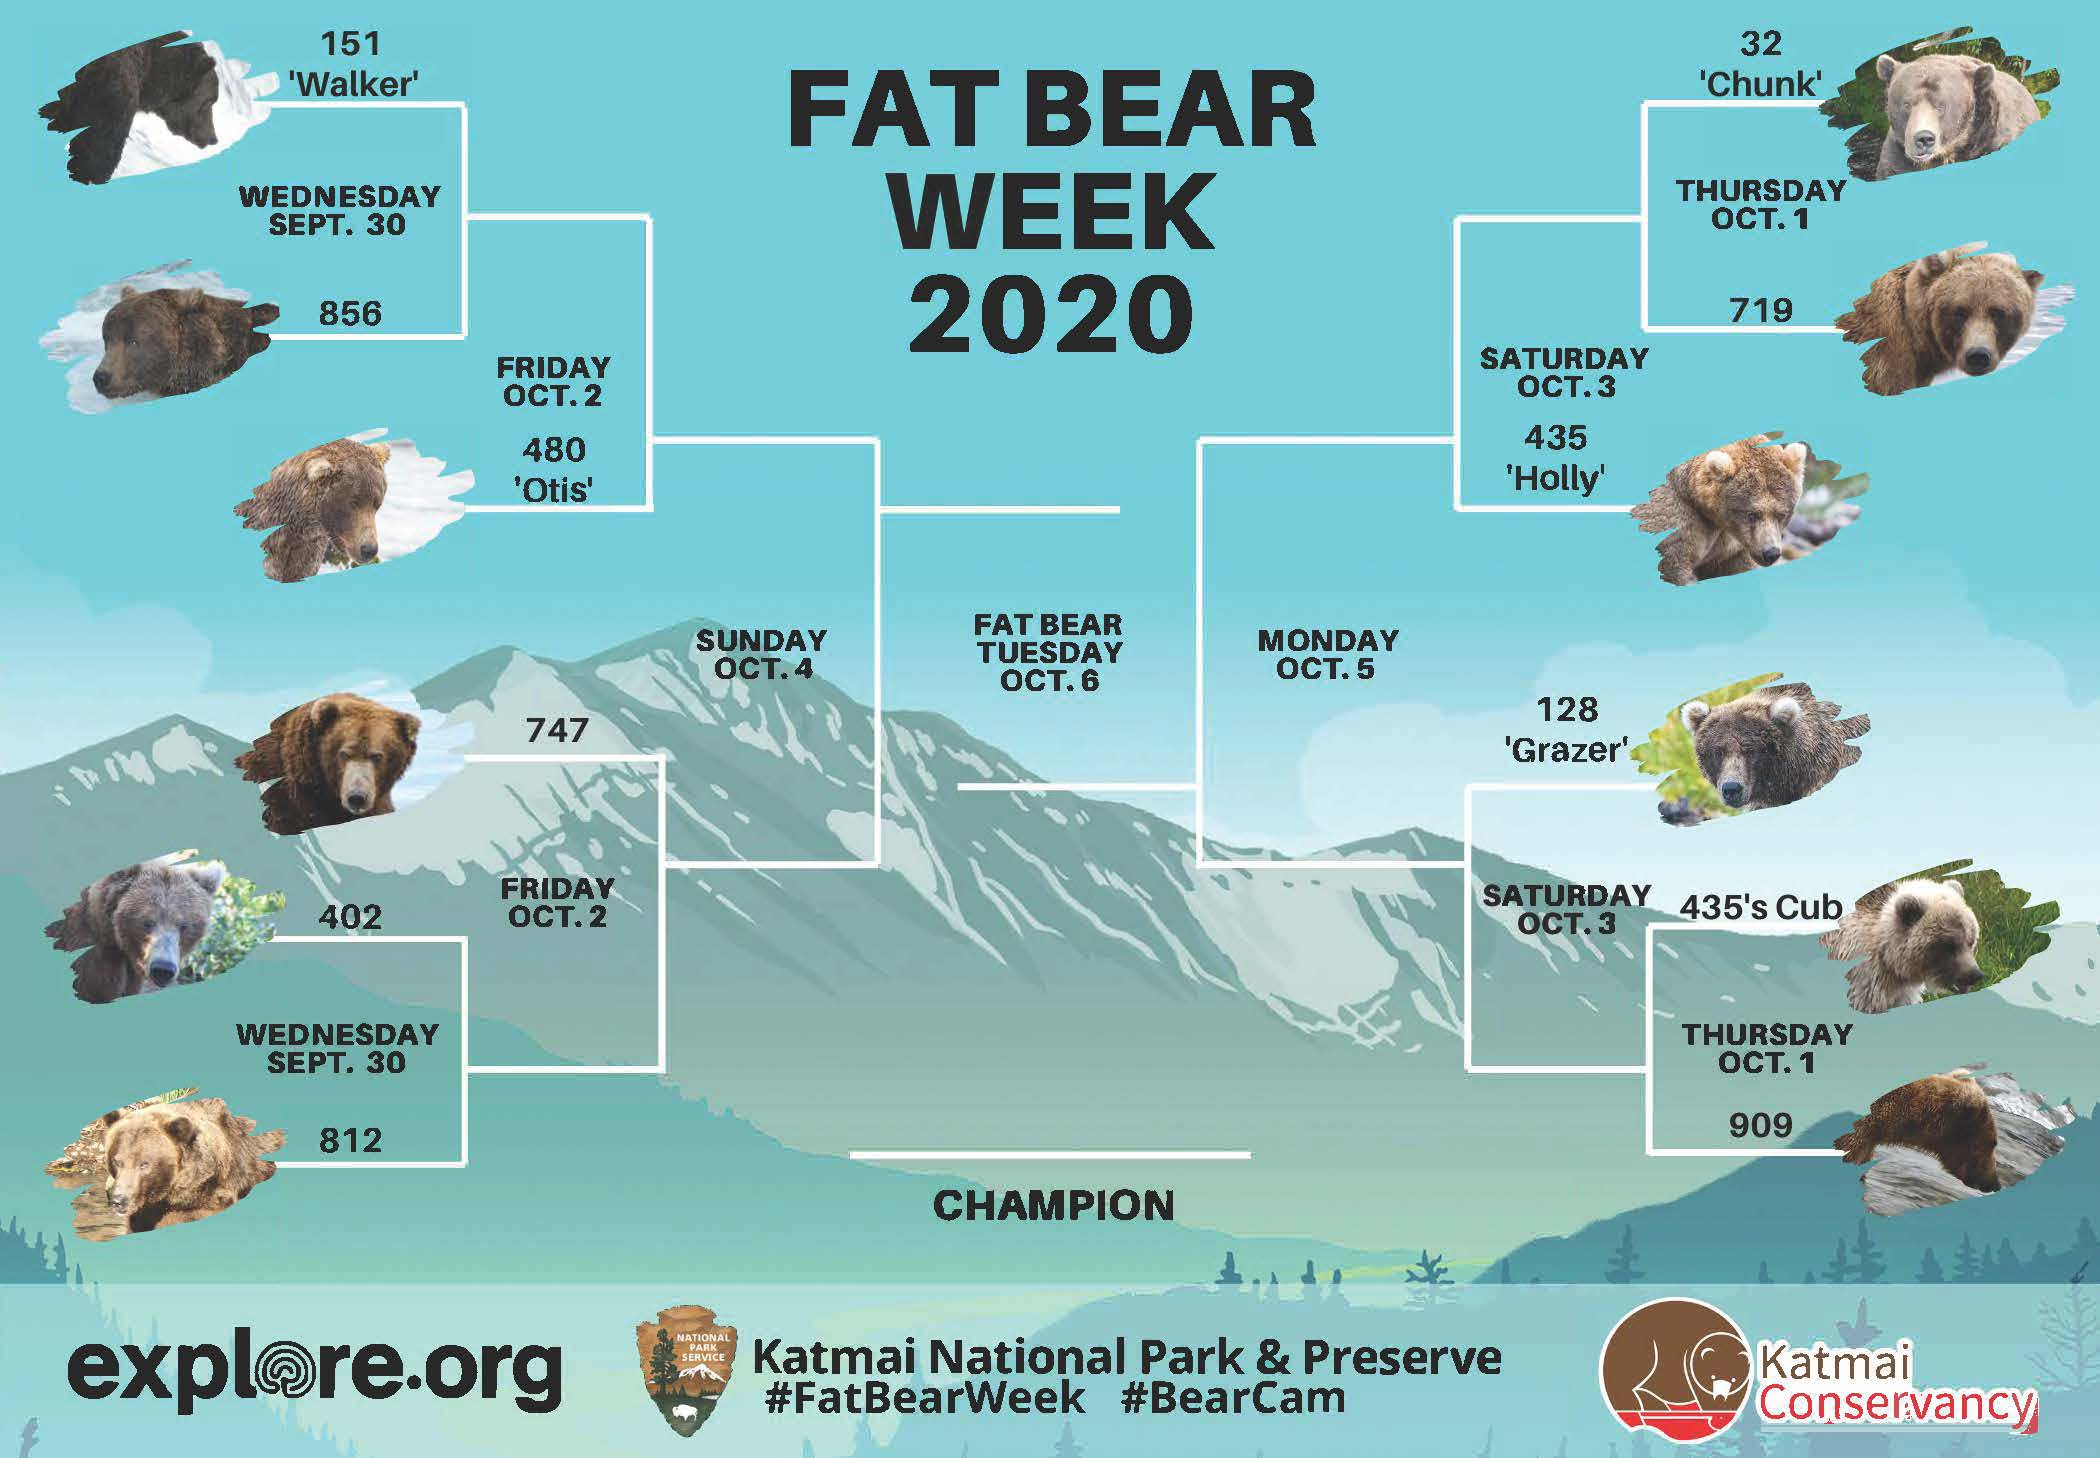
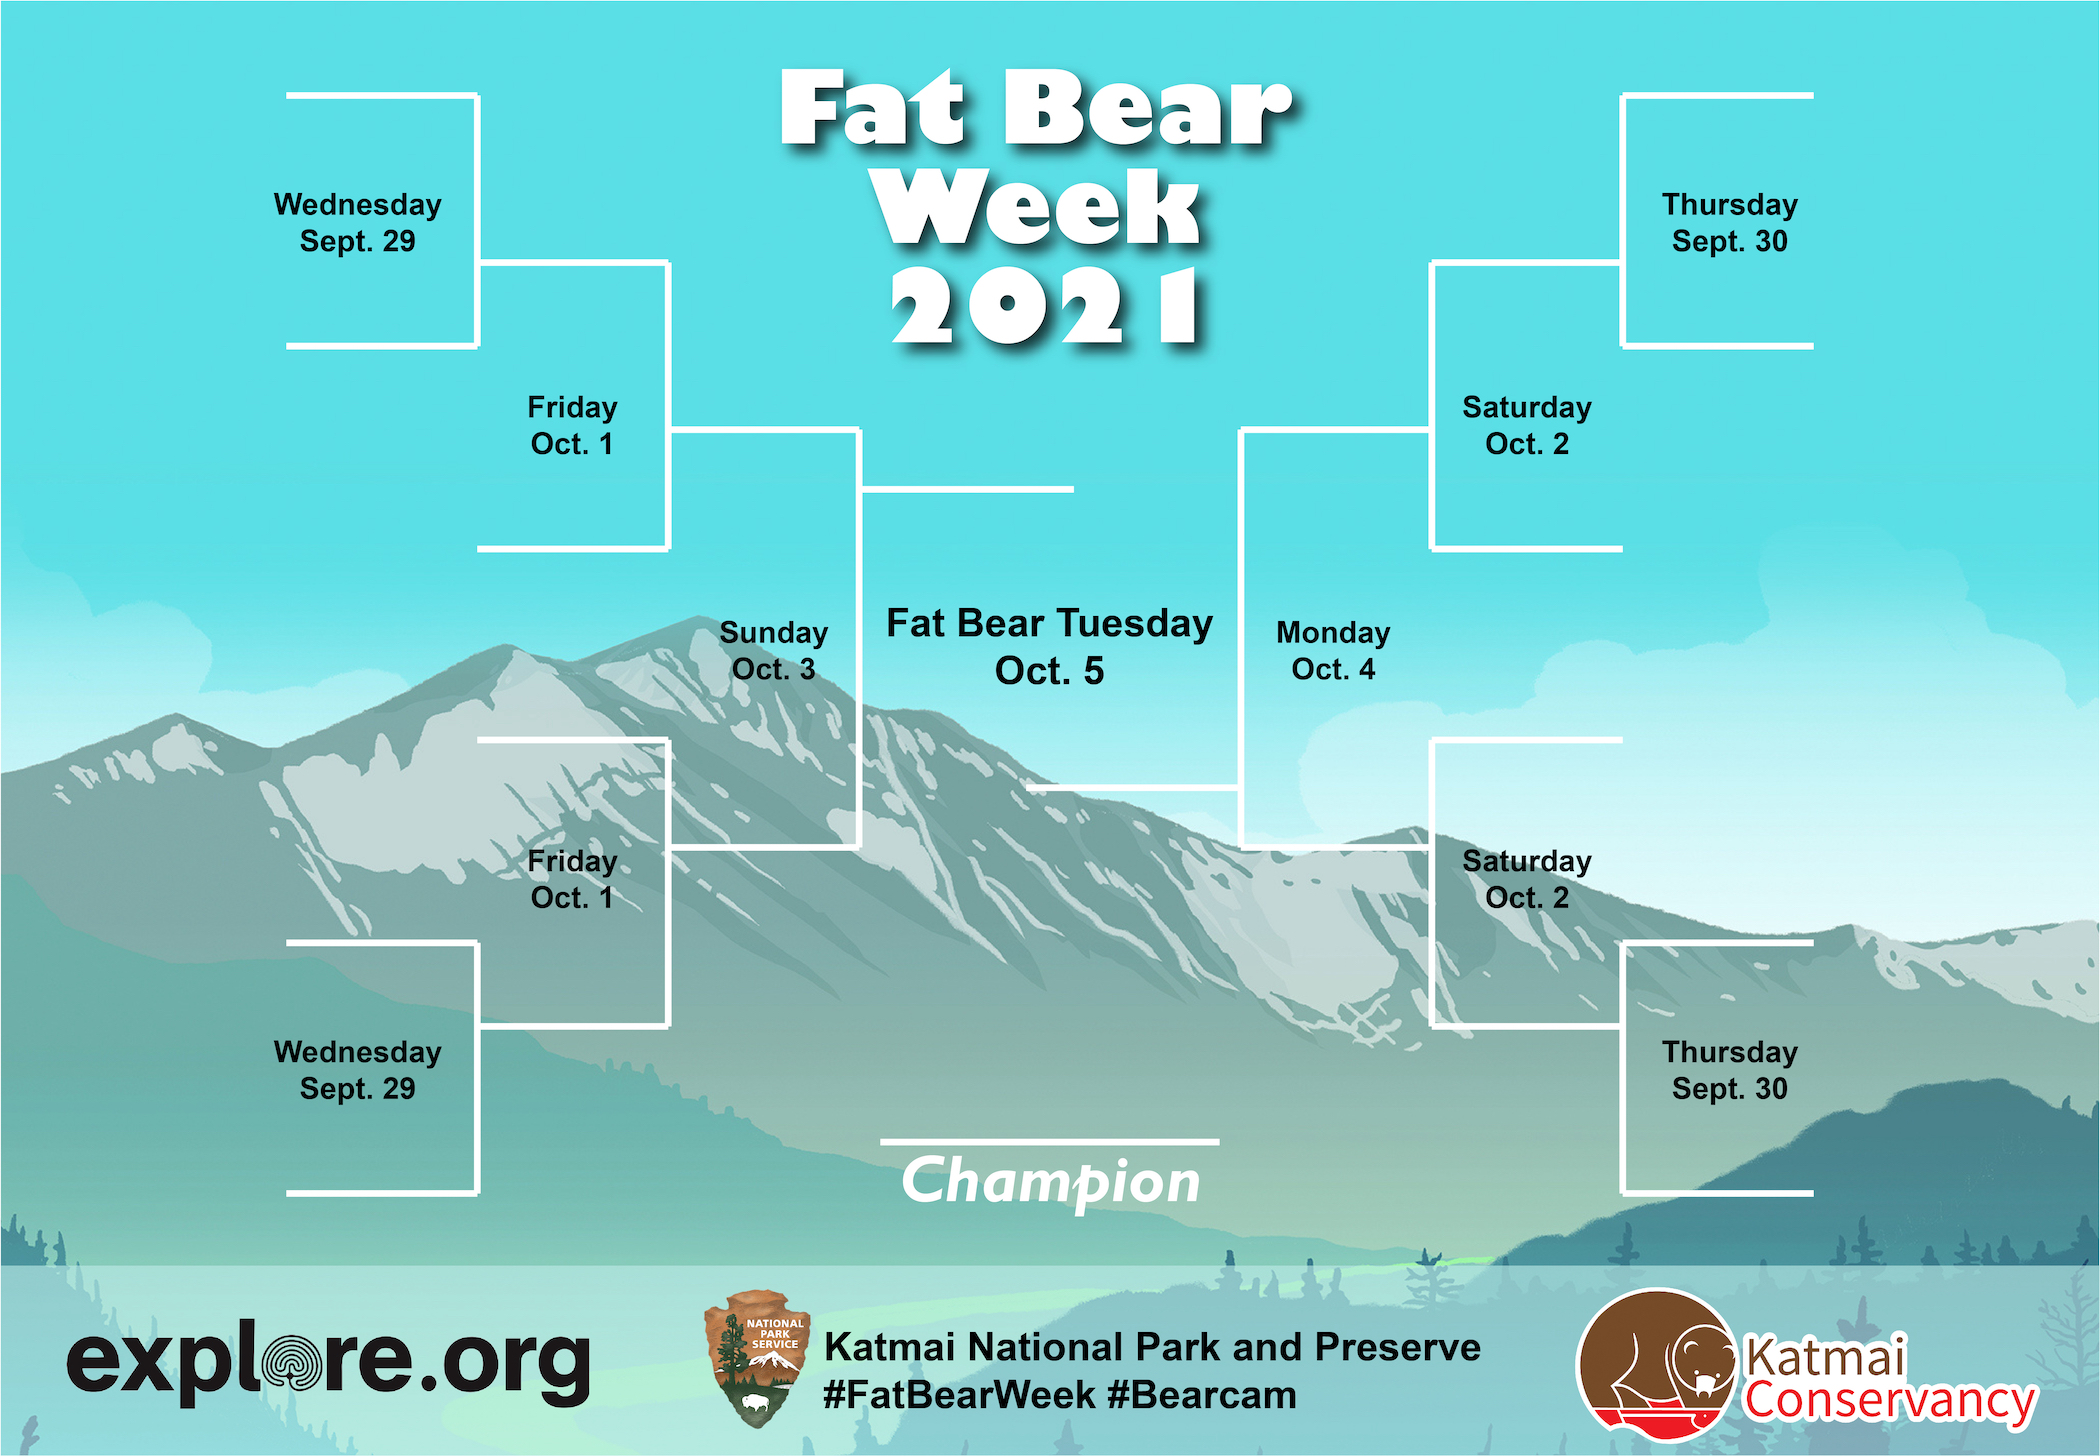
prep for real bears!

diff --git a/site/web/index.html b/site/web/index.html
@@ -11,6 +11,10 @@
         padding: 0;
       }
 
+      div#bracket {
+        width: 2100px;
+      }
+
       div#bracket div {
         height: 40px;
         min-width: 200px;
@@ -18,59 +22,62 @@
       }
 
       div#match_01_winner {
-        left: 480px;
-        top: 180px;
+        left: 490px;
+        top: 220px;
       }
 
       div#match_02_winner {
-        left: 480px;
-        top: 1040px;
+        left: 490px;
+        top: 990px;
       }
 
       div#match_03_winner {
-        left: 1470px;
-        top: 180px;
+        left: 1450px;
+        top: 220px;
       }
 
       div#match_04_winner {
-        left: 1470px;
-        top: 1040px;
+        left: 1450px;
+        top: 990px;
       }
 
       div#match_05_winner {
-        left: 670px;
-        top: 410px;
+        left: 680px;
+        top: 390px;
       }
 
       div#match_06_winner {
-        left: 670px;
-        top: 830px;
+        left: 680px;
+        top: 810px;
       }
 
       div#match_07_winner {
-        left: 1220px;
-        top: 410px;
+        left: 1250px;
+        top: 390px;
       }
 
       div#match_08_winner {
-        left: 1220px;
-        top: 830px;
+        left: 1250px;
+        top: 810px;
       }
 
       div#match_09_winner {
-        left: 900px;
-        top: 480px;
+        left: 870px;
+        top: 450px;
       }
 
       div#match_10_winner {
-        left: 970px;
+        left: 1020px;
         top: 750px;
       }
 
       div#match_11_winner {
-        font-size: 2em;
-        left: 850px;
-        top: 1100px;
+        font-size: 3em;
+        left: 750px;
+        line-height: 0.8em;
+        min-width: 600px !important;
+        text-align: center;
+        top: 1050px;
       }
     </style>
   </head>
@@ -88,7 +95,7 @@
       <div id="match_10_winner"></div>
       <div id="match_11_winner"></div>
 
-      <!-- 2100 x 1458 -->
+      <!-- 2100 x 1456 -->
       <img src="bracket.jpg" />
     </div>
     <script type="text/javascript">
@@ -106,20 +113,6 @@
           }
         });
       };
-
-      setWinners({
-        10: "2111 Black",
-        11: "2109 Gummi",
-        "08": "2112 Brown",
-        "04": "2107 Teddy Ruxpin",
-        "07": "2111 Black",
-        "03": "2105 Fozzie",
-        "09": "2109 Gummi",
-        "06": "2110 Grizzly",
-        "02": "2103 Baloo",
-        "05": "2109 Gummi",
-        "01": "2101 Pooh",
-      });
     </script>
   </body>
 </html>
